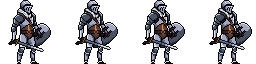
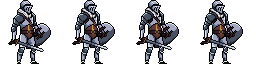
player rendering

Changed region(s): [[0.7812, 0.0, 1.0, 1.0], [0.5312, 0.0, 0.75, 1.0], [0.2812, 0.0, 0.4688, 1.0]]

diff --git a/PlayerImages.java b/PlayerImages.java
@@ -22,10 +22,10 @@ public class PlayerImages {
     private int[] nums;
     private int playerNum;
     private String name;
-    private MyHashMap<String, BufferedImage> p1Assets;
-    private MyHashMap<String, BufferedImage> p2Assets;
-    private MyHashMap<String, BufferedImage> p3Assets;
-    private MyHashMap<String, BufferedImage>[] assets;
+    private MyHashMap<Integer, BufferedImage> p1Assets;
+    private MyHashMap<Integer, BufferedImage> p2Assets;
+    private MyHashMap<Integer, BufferedImage> p3Assets;
+    private MyHashMap<Integer, BufferedImage>[] assets;
     private DrawManipulation drawManipulation;
     private AffineTransform transform;
     private AffineTransformOp op;
@@ -53,9 +53,9 @@ public class PlayerImages {
     }
 
     public void imageLoader() {
-        p1Assets = new MyHashMap<String, BufferedImage>();
-        p2Assets = new MyHashMap<String, BufferedImage>();
-        p3Assets = new MyHashMap<String, BufferedImage>();
+        p1Assets = new MyHashMap<Integer, BufferedImage>();
+        p2Assets = new MyHashMap<Integer, BufferedImage>();
+        p3Assets = new MyHashMap<Integer, BufferedImage>();
         assets = new MyHashMap[3];
 
         assets[0] = p1Assets;
@@ -67,24 +67,25 @@ public class PlayerImages {
             try {
                 path = "/assets/src/player/k" + (i + 1);
                 System.out.println(path);
-                assets[i].put("Idle",
-                        ImageIO.read(getClass().getResource(path + "/Idle.png")));
-                assets[i].put("Run",
-                        ImageIO.read(getClass().getResource(path + "/Run.png")));
-                assets[i].put("Jump",
-                        ImageIO.read(getClass().getResource(path + "/Jump.png")));
-                assets[i].put("Attack1",
-                        ImageIO.read(getClass().getResource(path + "/Attack1.png")));
-                assets[i].put("Attack2",
-                        ImageIO.read(getClass().getResource(path + "/Attack2.png")));
-                assets[i].put("Attack3",
-                        ImageIO.read(getClass().getResource(path + "/Attack3.png")));
-                assets[i].put("Dead",
-                        ImageIO.read(getClass().getResource(path + "/Dead.png")));
-                assets[i].put("Hurt",
-                        ImageIO.read(getClass().getResource(path + "/Hurt.png")));
-                assets[i].put("Defend",
-                        ImageIO.read(getClass().getResource(path + "/Defend.png")));
+                // Attack1 =0
+                // Attack2 =1
+                // Attack3 =2
+                // Dead =3
+                // Defend =4
+                // Hurt =5
+                // Idle =6
+                // Jump =7
+                // Run =8
+
+                assets[i].put(0, ImageIO.read(getClass().getResource(path + "/Attack1.png")));
+                assets[i].put(1, ImageIO.read(getClass().getResource(path + "/Attack2.png")));
+                assets[i].put(2, ImageIO.read(getClass().getResource(path + "/Attack3.png")));
+                assets[i].put(3, ImageIO.read(getClass().getResource(path + "/Dead.png")));
+                assets[i].put(4, ImageIO.read(getClass().getResource(path + "/Defend.png")));
+                assets[i].put(5, ImageIO.read(getClass().getResource(path + "/Hurt.png")));
+                assets[i].put(6, ImageIO.read(getClass().getResource(path + "/Idle.png")));
+                assets[i].put(7, ImageIO.read(getClass().getResource(path + "/Jump.png")));
+                assets[i].put(8, ImageIO.read(getClass().getResource(path + "/Run.png")));
 
             } catch (Exception e) {
                 e.printStackTrace();
@@ -104,39 +105,12 @@ public class PlayerImages {
     public void updateImg(int number) {
         try {
             int action = number;
-            if (action / 100 == 0) {// attack1
-                currentBufferedImage = assets[playerNum].get("Attack1");
-                updateImg(currentBufferedImage, action % 100);
-            } else if (action / 100 == 1) {// attack2
-                currentBufferedImage = assets[playerNum].get("Attack2");
-                updateImg(currentBufferedImage, action % 100);
-            } else if (action / 100 == 2) {// attack3
-                currentBufferedImage = assets[playerNum].get("Attack3");
-                updateImg(currentBufferedImage, action % 100);
-            } else if (action / 100 == 3) {// dead
-                currentBufferedImage = assets[playerNum].get("Dead");
-                updateImg(currentBufferedImage, action % 100);
-            } else if (action / 100 == 4) {// defend
-                currentBufferedImage = assets[playerNum].get("Defend");
-                updateImg(currentBufferedImage, action % 100);
-            } else if (action / 100 == 5) {// hurt
-                currentBufferedImage = assets[playerNum].get("Hurt");
-                updateImg(currentBufferedImage, action % 100);
-            } else if (action / 100 == 6) {// idle
-                currentBufferedImage = assets[playerNum].get("Idle");
-                updateImg(currentBufferedImage, action % 100);
-            } else if (action / 100 == 7) {// jump
-                currentBufferedImage = assets[playerNum].get("Jump");
-                updateImg(currentBufferedImage, action % 100);
-            } else if (action / 100 == 8) {// run
-                currentBufferedImage = assets[playerNum].get("Run");
-                updateImg(currentBufferedImage, action % 100);
-            } else if (action / 100 == 9) {// run + attack
-
-            }
+            currentBufferedImage = assets[playerNum].get(action / 100);
+            updateImg(currentBufferedImage, action % 100);
 
         } catch (Exception e) {
             System.out.println("++++++++++++++++++++++++++++++++++++");
+            System.out.println("Current PlayerImages in render: " + number);
             e.printStackTrace();
             System.out.println("++++++++++++++++++++++++++++++++++++");
             System.exit(1);
@@ -144,10 +118,47 @@ public class PlayerImages {
 
     }
 
+    // public void updateImg(int number) {
+    // try {
+    // int action = number;
+    // if (action / 100 == 6) {// idle
+    // currentBufferedImage = assets[playerNum].get("Idle");
+    // updateImg(currentBufferedImage, action % 100);
+    // } else if (action / 100 == 8) {// run
+    // currentBufferedImage = assets[playerNum].get("Run");
+    // System.out.println("runing");
+    // updateImg(currentBufferedImage, action % 100);
+    // } else {
+    // currentBufferedImage = assets[playerNum].get("Idle");
+    // updateImg(currentBufferedImage, action % 100);
+    // }
+
+    // } catch (Exception e) {
+    // System.out.println("++++++++++++++++++++++++++++++++++++");
+    // System.out.println("Current PlayerImages in render: " + number);
+    // System.out.println("Current Player in render: " + playerNum);
+    // System.out.println(currentFrame);
+    // System.out.println(
+    // "Current atempted subimage dimension: x-pos:" + currentFrame *
+    // Player.PLAYER_IMGWIDTH + " y-pos:"
+    // + 0 + " width:" + Player.PLAYER_IMGWIDTH + " height:" +
+    // Player.PLAYER_IMGHEIGHT);
+    // System.out.println("Current buffered image dimension: width:" +
+    // currentBufferedImage.getWidth(null)
+    // + " height:" + currentBufferedImage.getHeight(null));
+    // e.printStackTrace();
+    // System.out.println("++++++++++++++++++++++++++++++++++++");
+    // System.exit(1);
+    // }
+
+    // }
+
     private void updateImg(BufferedImage img, int Frame) {
-        img = assets[playerNum].get("Idle");
+        // img = assets[playerNum].get(8);
         int currentFrame = Frame / 10;
-        currentBufferedFramed = img.getSubimage(currentFrame * Player.PLAYER_IMGWIDTH, 0, Player.PLAYER_IMGWIDTH, Player.PLAYER_IMGHEIGHT);
+        System.out.println("Current Frame: " + currentFrame);
+        currentBufferedFramed = img.getSubimage(currentFrame * Player.PLAYER_IMGWIDTH, 0, Player.PLAYER_IMGWIDTH,
+                Player.PLAYER_IMGHEIGHT);
         int currentDirection = Frame % 10;
         if (currentDirection == 0) {
             transform = AffineTransform.getScaleInstance(-1, 1);
@@ -167,7 +178,7 @@ public class PlayerImages {
 
     public void draw(Graphics g, int x, int y) {
         try {
-            drawImage(g, x+Player.IMG_OFFSET, y);
+            drawImage(g, x + Player.IMG_OFFSET, y);
         } catch (Exception e) {
             e.printStackTrace();
         }

diff --git a/Player.java b/Player.java
@@ -9,20 +9,21 @@ public class Player extends GameObjectStatus {
     public static final int IMG_OFFSET = -15;// player height
     public static final int FIREBALL_SPEED = 5;// Fireball speed
     public static final double FIREBALL_MULTIPLIER = 2;
-<<<<<<< HEAD
-    public int frame = 0;
-=======
-    public static final int ANIMATION_SPEED = 5;//play the next animation step every _ frames
->>>>>>> 67d7a5d29971bf6794533f39d337e7fb4359addc
+    public static final int ANIMATION_SPEED = 10;// play the next animation step every _ frames
+
+    // 0=Attack1,1=Attack2,2=Attack3,3=Dead,4=Defend,5=hurt,6=idle,7=jump,8=run
+    private int currentAnimation;
+    private int frame;
     private String name;
     private int fireCooldown;
+    // 0=Attack1,1=Attack2,2=Attack3,3=Dead,4=Defend,5=hurt,6=idle,7=jump,8=run
     private int[] imgNum;
     private int timer;
 
     public Player(String name, ManagerThread managerThread) {
         super(managerThread);
         this.name = name;
-        imgNum = new int[] { 0, 0, 0 };//index 0 is image, 1 is frame, 2 is direction
+        imgNum = new int[] { 0, 0, 0 };// index 0 is image, 1 is frame, 2 is direction
         fireCooldown = 0;
         timer = 0;
     }
@@ -41,8 +42,22 @@ public class Player extends GameObjectStatus {
             v.setXDirection(0);
             super.getManagerThread().broadcast(new Pair<String, Object>("PlayerDies", name));
         }
+        if (isIdle()) {
+            if (super.isTouchingGround() == true) {
+                if (imgNum[0] != 6) {
+                    frame = 0;
+                }
+                if (frame / Player.ANIMATION_SPEED == 3) {
+                    frame = 0;
+                }
+                imgNum[0] = 6;
+                imgNum[1] = frame / Player.ANIMATION_SPEED;
+            }
+
+        }
         if (super.isUp()) {// up
             imgNum[0] = 7;
+            imgNum[1] = 0;
             if (super.isTouchingGround() == true) {
                 v.setYDirection(v.getYDirection() - ManagerThread.JUMPLAYER_HEIGHT);
                 super.setTouchingGround(false);
@@ -50,9 +65,9 @@ public class Player extends GameObjectStatus {
                 v.setYDirection(v.getYDirection() - ManagerThread.SMASH);
             }
             if (v.getYDirection() <= 0) {
-                imgNum[1] = 1;
+                imgNum[2] = 1;
             } else {
-                imgNum[1] = 2;
+                imgNum[2] = 2;
             }
         }
         if (super.isDown()) {// down
@@ -63,8 +78,15 @@ public class Player extends GameObjectStatus {
         if (super.isLeft()) {// left
             if (super.isTouchingGround()) {
                 v.setXDirection(v.getXDirection() - ManagerThread.GROUNDMOVEMENT);
+                if (imgNum[0] != 8) {
+                    frame = 0;
+                }
+                if (frame / Player.ANIMATION_SPEED == 6) {
+                    frame = 0;
+                }
                 imgNum[0] = 8;
-                
+                imgNum[1] = frame / Player.ANIMATION_SPEED;
+
             }
             v.setXDirection(v.getXDirection() - ManagerThread.AIRMOVEMENT);
             imgNum[2] = 0;
@@ -72,8 +94,15 @@ public class Player extends GameObjectStatus {
         if (super.isRight()) {// right
             if (super.isTouchingGround()) {
                 v.setXDirection(v.getXDirection() + ManagerThread.GROUNDMOVEMENT);
+                if (imgNum[0] != 8) {
+                    frame = 0;
+                }
+                if (frame / Player.ANIMATION_SPEED == 6) {
+                    frame = 0;
+                }
                 imgNum[0] = 8;
-                
+                imgNum[1] = frame / Player.ANIMATION_SPEED;
+
             }
             v.setXDirection(v.getXDirection() + ManagerThread.AIRMOVEMENT);
             imgNum[2] = 1;

diff --git a/GameObjectStatus.java b/GameObjectStatus.java
@@ -25,8 +25,8 @@ public class GameObjectStatus implements Serializable {
     private int jumpCount;
     private int imgStatus;
     private ManagerThread managerThread;
-    private MyHashMap<String, double[]> projectiles;// projectiles stored in hashmap (used for collisions), int[] array contains [x, y, xVel, yVel]
-
+    private MyHashMap<String, double[]> projectiles;// projectiles stored in hashmap (used for collisions), int[] array
+                                                    // contains [x, y, xVel, yVel]
 
     public GameObjectStatus(ManagerThread managerThread) {
         vector = new Vector(0, 0);
@@ -45,6 +45,14 @@ public class GameObjectStatus implements Serializable {
         rightMouseState = keys[6] == 1;
         mouseX = keys[7];
         mouseY = keys[8];
+    }
+
+    public boolean isIdle() {
+        if (isLeft() || isRight() || isUp() || isDown() || isDash()) {
+            return false;
+        }
+        return true;
+
     }
 
     public boolean isPlayer() {
@@ -193,14 +201,15 @@ public class GameObjectStatus implements Serializable {
 
     public void setImgStatus(int imgStatus) {
         /*
-        img 00 is idle.png
-
-
-
-        */
+         * img 00 is idle.png
+         * 
+         * 
+         * 
+         */
         this.imgStatus = imgStatus;
     }
-    public int getImgStatus(){
+
+    public int getImgStatus() {
         return imgStatus;
     }
 

diff --git a/ManagerThread.java b/ManagerThread.java
@@ -64,7 +64,8 @@ public class ManagerThread implements Runnable {
 
             // send out all information
             for (String each : gameObjects.keySet()) {
-                sendData.put(each, new int[] { (int) gameObjects.get(each).getXpos(), (int) gameObjects.get(each).getYpos(), (int) gameObjects.get(each).getImgStatus() });
+                sendData.put(each, new int[] { (int) gameObjects.get(each).getXpos(),
+                        (int) gameObjects.get(each).getYpos(), (int) gameObjects.get(each).getImgStatus() });
             }
             broadcast(new Pair<String, Object>("gameData", sendData));
             sendData = new MyHashMap<String, int[]>();// reset sendData
@@ -116,7 +117,8 @@ public class ManagerThread implements Runnable {
     public MyHashMap<String, double[]> getBalls() {
         return balls;
     }
-    public void broadcast(Pair<String, Object> pair){
+
+    public void broadcast(Pair<String, Object> pair) {
         manager.broadcast(pair);
     }
 }
